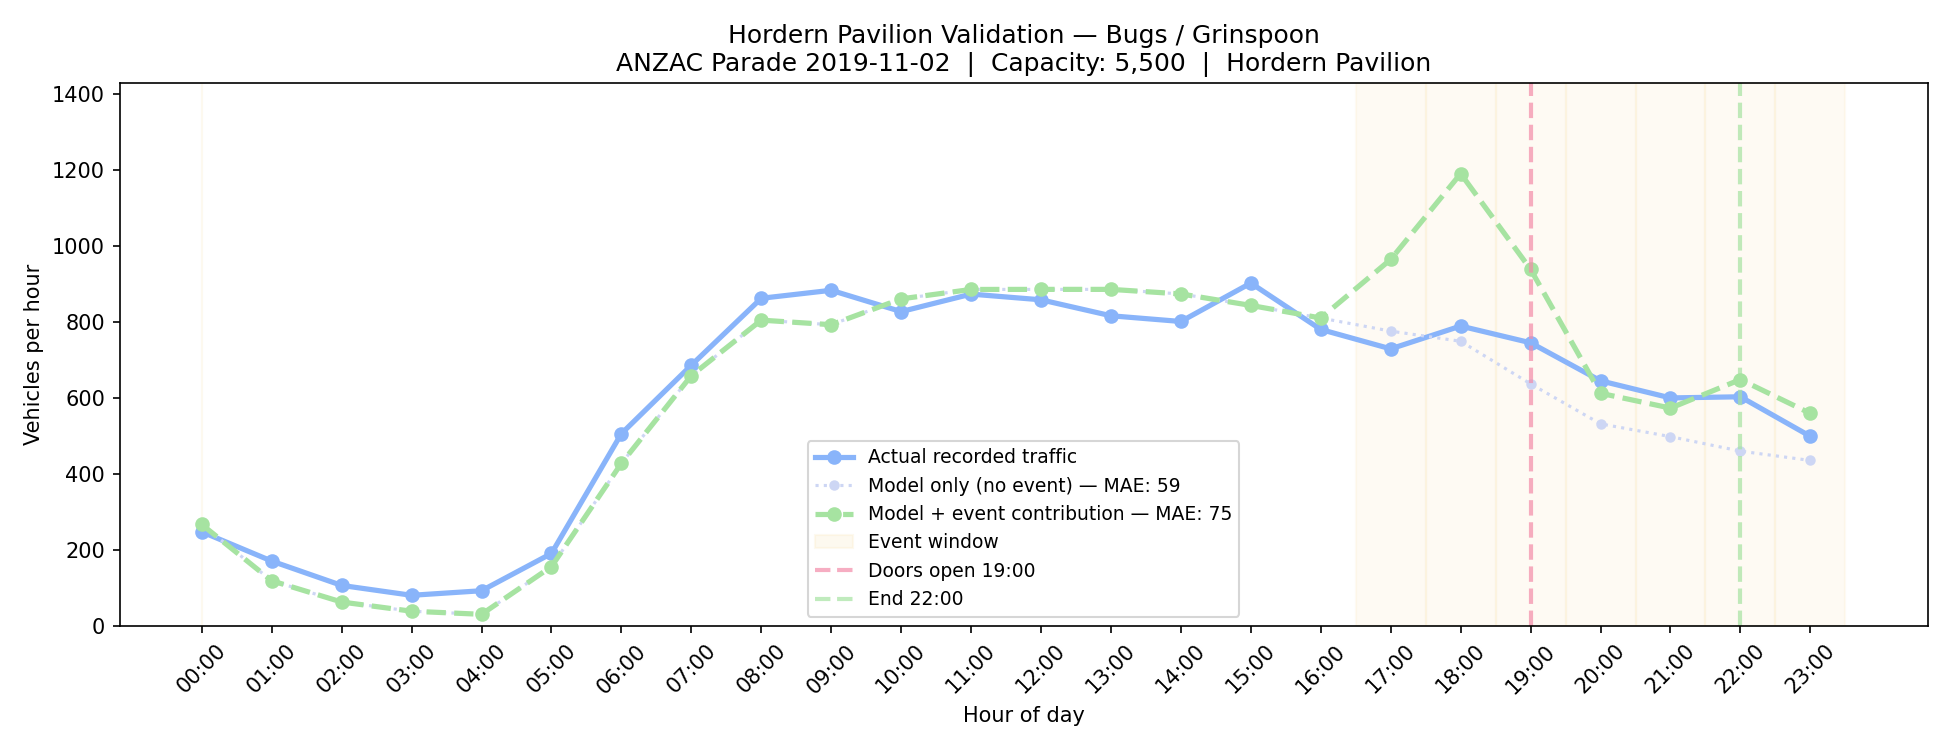
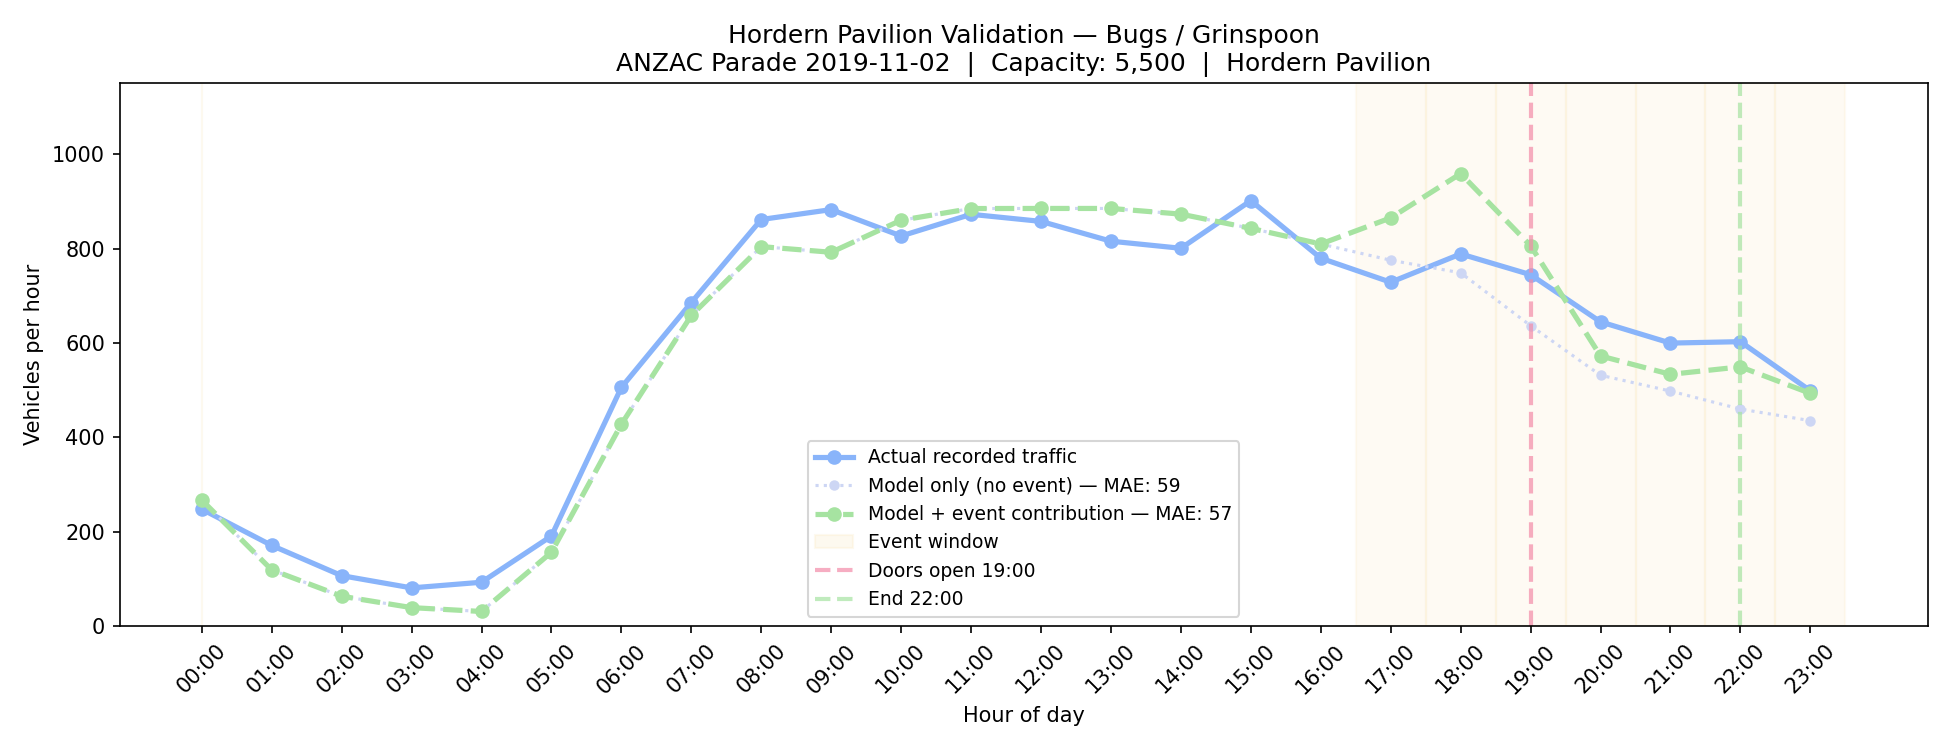
use for thingo today

diff --git a/angus/tfnsw_api/main.py b/angus/tfnsw_api/main.py
@@ -186,18 +186,40 @@ def event_traffic_contribution(max_attendance, hour, event_hour, event_duration=
     if hour > 23:
         return 0
  
-    # Drive rate scales smoothly down as attendance grows —
+    # drive_rate scales smoothly down as attendance grows —
     # bigger crowds shift to PT due to parking scarcity.
     drive_rate = max(0.13, 0.40 - (max_attendance / 40000) * 0.27)
  
     # Venue-specific capture rate — what % of event traffic passes the sensor
-    # Calibrated against observed 2019 traffic spikes on event days
+    # For SCG/Allianz: capture rate scales with attendance based on road closure tipping point.
+    # Under 25,000 — Moore Park Rd stays open, most traffic bypasses ANZAC Parade (low capture)
+    # Over 30,000 — mandatory road closures force traffic onto ANZAC Parade (high capture)
+    # Small events still cause some increase, just not much.
     if venue_type == 0:
-        capture_rate = 0.63    # Hordern — calibrated from observed +1,318 spike
+        # Hordern — direct ANZAC Parade access but small venue
+        # Under 5,500 capacity so never triggers road closures alone
+        # Small consistent impact — calibrated from observed data
+        if max_attendance < 3000:
+            capture_rate = 0.20    # very small event, minimal impact
+        else:
+            capture_rate = 0.30    # full capacity, moderate impact
     elif venue_type == 1:
         capture_rate = 0.60    # Randwick — most traffic heads south on ANZAC Parade
     elif venue_type == 2:
-        capture_rate = 0.25    # SCG/Allianz — mostly Moore Park Rd, some via EQ parking
+        # SCG/Allianz: smooth ramp from 15% (small game) to 65% (sellout with road closures)
+        # Tipping point at 25,000-30,000 where road closures kick in
+        if max_attendance < 10000:
+            capture_rate = 0.10    # small game, Moore Park Rd open, minimal ANZAC impact
+        elif max_attendance < 25000:
+            # gradual increase — some traffic spills onto ANZAC Parade
+            capture_rate = 0.10 + (max_attendance - 10000) / 15000 * 0.20  # 10% → 30%
+        elif max_attendance < 30000:
+            # approaching tipping point — road management starting to redirect traffic
+            capture_rate = 0.30 + (max_attendance - 25000) / 5000 * 0.20   # 30% → 50%
+        else:
+            # 30,000+ — road closures force traffic onto ANZAC Parade
+            capture_rate = 0.50 + (max_attendance - 30000) / 10000 * 0.15  # 50% → 65% cap
+            capture_rate = min(capture_rate, 0.65)
     else:
         capture_rate = 0.50    # unknown venue — assume moderate capture
  
@@ -283,10 +305,24 @@ def predict_day_summary(date_str, has_event=0, max_attendance=0,
     print(f"Event day        : {'Yes' if has_event else 'No'}")
     if has_event:
         print(f"Attendance       : {max_attendance:,.0f}")
-        drive_rate   = max(0.13, 0.40 - (max_attendance / 40000) * 0.27)
-        capture_rate = 0.63 if venue_type == 0 else 0.60 if venue_type == 1 else 0.25 if venue_type == 2 else 0.50
-        venue_label  = "Hordern" if venue_type == 0 else "Randwick" if venue_type == 1 else "SCG/Allianz" if venue_type == 2 else "Unknown"
-        extra_cars   = max_attendance * drive_rate * capture_rate
+        drive_rate  = max(0.13, 0.40 - (max_attendance / 40000) * 0.27)
+        venue_label = "Hordern" if venue_type == 0 else "Randwick" if venue_type == 1 else "SCG/Allianz" if venue_type == 2 else "Unknown"
+        if venue_type == 0:
+            capture_rate = 0.20 if max_attendance < 3000 else 0.30
+        elif venue_type == 1:
+            capture_rate = 0.60
+        elif venue_type == 2:
+            if max_attendance < 10000:
+                capture_rate = 0.10
+            elif max_attendance < 25000:
+                capture_rate = 0.10 + (max_attendance - 10000) / 15000 * 0.20
+            elif max_attendance < 30000:
+                capture_rate = 0.30 + (max_attendance - 25000) / 5000 * 0.20
+            else:
+                capture_rate = min(0.50 + (max_attendance - 30000) / 10000 * 0.15, 0.65)
+        else:
+            capture_rate = 0.50
+        extra_cars = max_attendance * drive_rate * capture_rate
         print(f"Drive rate       : {drive_rate*100:.1f}% ({venue_label} capture: {capture_rate*100:.0f}%)")
         print(f"Extra vehicles   : ~{extra_cars:.0f} passing sensor")
         print(f"Event window     : {event_hour-2:02d}:00 → {min(event_hour+event_duration+3, 23):02d}:00")
